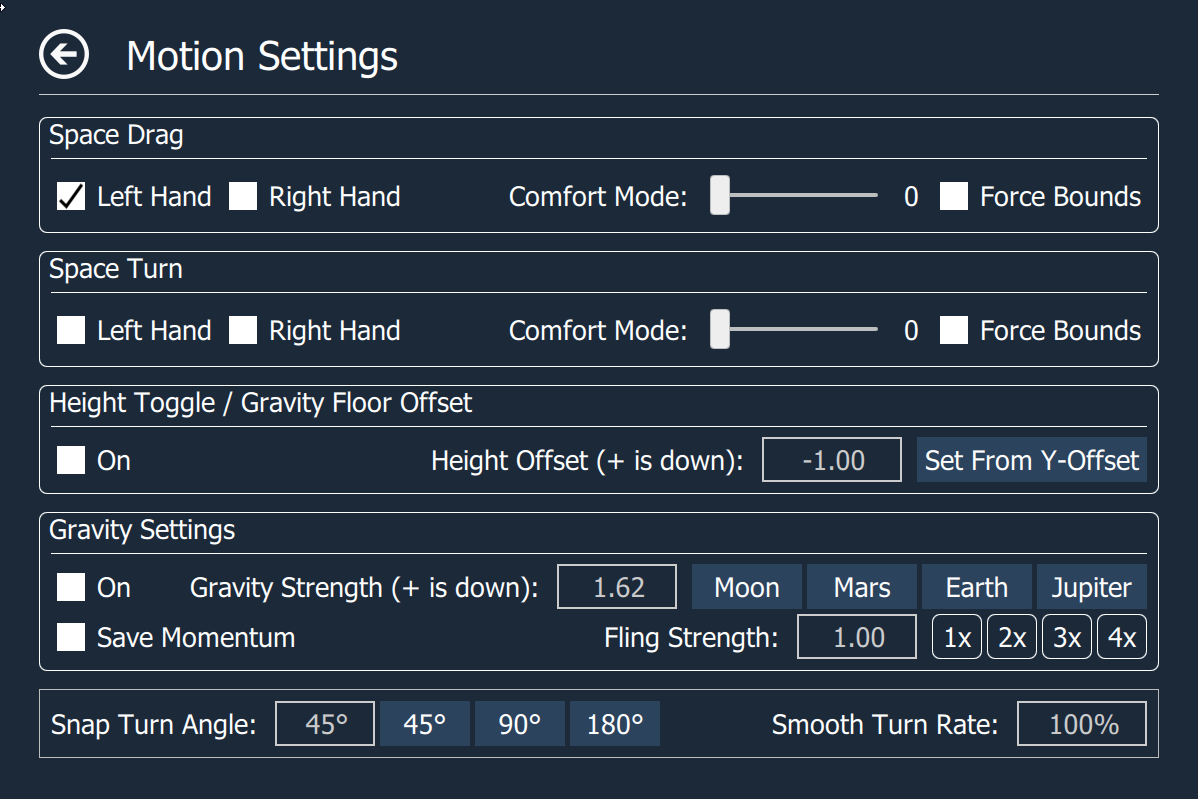
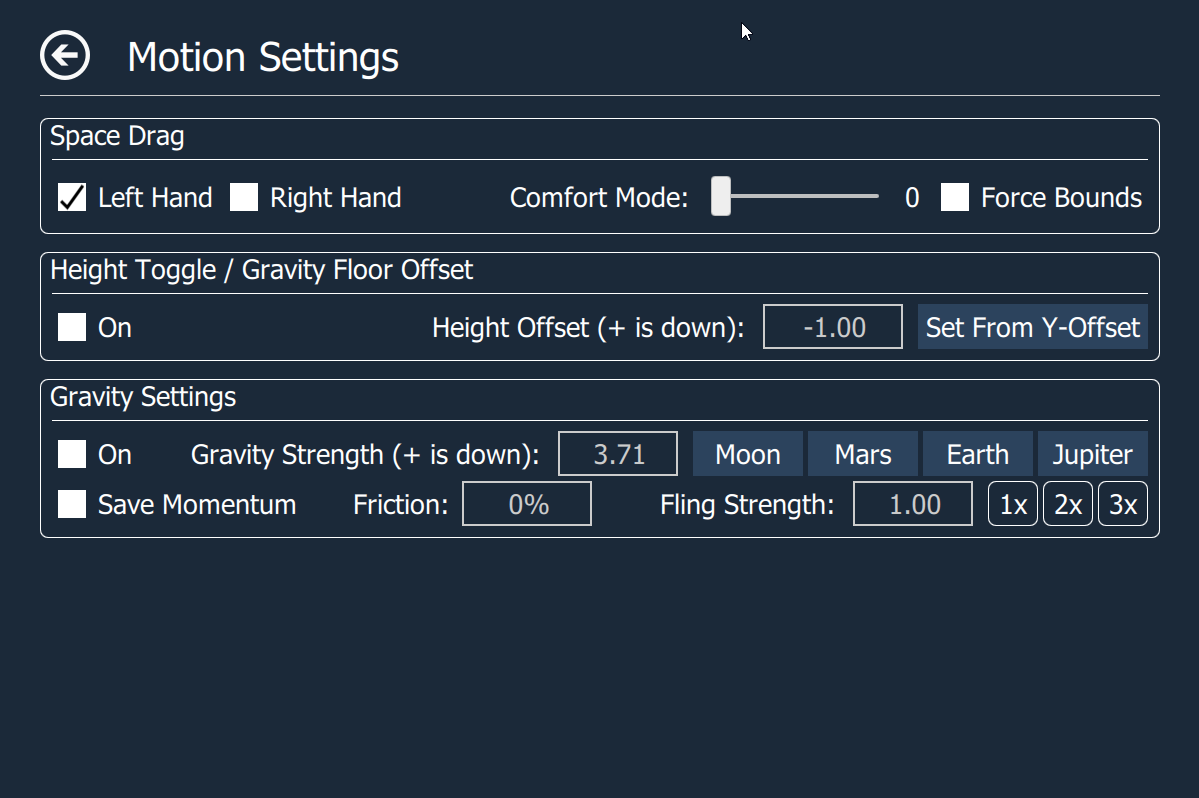
updated documentation/screenshots, let seated-recenter show in all modes, fixed default value of brigthness

diff --git a/src/res/qml/PlayspacePage.qml b/src/res/qml/PlayspacePage.qml
@@ -502,7 +502,7 @@ MyStackViewPage {
                 MyPushButton {
                     id: spaceSeatedRecenter
                     Layout.preferredWidth: 250
-                    visible: false
+                    visible: true
                     text: "Seated Recenter"
                     onClicked: {
                         MoveCenterTabController.sendSeatedRecenter()
@@ -539,7 +539,7 @@ MyStackViewPage {
 
             } else if (MoveCenterTabController.trackingUniverse === 1) {
                 spaceModeText.text = "Standing"
-                spaceSeatedRecenter.visible = false
+                spaceSeatedRecenter.visible = true
                 offsetsGroupBox.visible = true
                 rotationGroupBox.visible = true
                 resetButtonRow.visible = true

diff --git a/src/settings/internal/settings_controller.h b/src/settings/internal/settings_controller.h
@@ -391,7 +391,7 @@ private:
         DoubleSettingValue{ DoubleSetting::VIDEO_brightnessOpacityValue,
                             SettingCategory::Video,
                             QtInfo{ "brightnessOpacityValue" },
-                            0.0 },
+                            1.0 },
         DoubleSettingValue{ DoubleSetting::VIDEO_colorOverlayOpacity,
                             SettingCategory::Video,
                             QtInfo{ "colorOverlayOpacity" },

diff --git a/Readme.md b/Readme.md
@@ -25,11 +25,13 @@ Adds an overlay to the OpenVR dashboard that allows access to advanced settings 
      * [Music](#music)
      * [Motion](#motion)
      * [Misc.](#misc)
+	 * [System.](#system)
      * [Haptics.](#haptics)
   * [Default Bindings](#default-bindings)
      * [Vive Wands](#vive-wands)
      * [Valve Index Controllers (Knuckles)](#valve-index-controllers-knuckles)
      * [WMR](#wmr)
+	 * [Touch](#touch)
      * [Other Controllers](#other-controllers)
   * [SteamVR Input Guide](#steamvr-input-guide)
   * [Command Line Arguments](#command-line-arguments)
@@ -42,6 +44,7 @@ Adds an overlay to the OpenVR dashboard that allows access to advanced settings 
   * [- Chaperone Proximity Warning Settings Page](#--chaperone-proximity-warning-settings-page)
   * [- Space Offset Page](#--space-offset-page)
   * [- Motion Page](#--motion-page)
+  * [- Rotation Page](#--rotation-page)
   * [- Space Fix Page](#--space-fix-page)
   * [- Audio Page](#--audio-page)
   * [- Video Page](#--video-page)
@@ -159,6 +162,7 @@ Override actions will take priority over non-override actions during simultaneou
 | Snap-Turn Right | Binary/Button |  Rotates a set value to the right based on settings in motion tab. |
 | Smooth-Turn Right | Binary/Button | Rotates an amount per frame to the right based on settings in motion tab. |
 | Smooth-Turn Left | Binary/Button | Rotates an amount per frame to the left based on settings in motion tab. |
+| Auto-Turn Toggle | Binary/Button | Toggles the Auto-Turn Feature on/off.
 
 ### Misc.
 
@@ -176,14 +180,22 @@ Actions that don't have a clear category.
 | Keyboard Shortcut Three | Binary/Button | Sends the key sequence defined the the settings file. This has no default sequence. |
 
 
-### Haptics.
+### System.
 
-Actions that cause Vibration.
+Actions That will stay active regardless of the situation.
+
 
 |    Action     |     Type      |  Explanation  |
 | ------------- | ------------- |  ------------ |
 | Add Left Haptic Click | Binary/Button | simulates a "click" with controller haptics. (left hand)
 | Add Right Haptic Click | Binary/Button | simulates a "click" with controller haptics. (right hand)
+
+### Haptics.
+
+These Actions are Hidden, They are bound by default. They allow the application to use the haptics and proximity sensor in HMD's.
+
+|    Action     |     Type      |  Explanation  |
+| ------------- | ------------- |  ------------ |
 | Haptics Left | Vibration | Handle for haptic events on the Left Controller. **Do not "bind" this action**|
 | Haptics Right | Vibration | Handle for haptic events on the Right Controller. **Do not "bind" this action**|
 | Proximity Sensor | Binary/Button | Connects Automatically to your HMD's proximity sensor. **Do not "bind" this action**, it will cause un-predictable behavior. |
@@ -219,6 +231,15 @@ Actions that cause Vibration.
   - **Single Click**: Swap Active Space Drag (override) (respective hand)
 - TrackPad (right hand)
   - **D-pad Down click**: Push-to-Talk
+- Haptics bound
+
+### Touch
+- B/Y Button (respective hands)
+  - **Single Click**: Space Turn (respective hand)
+  - **Double Click**: Space Drag (override) (respective hand)
+  - **Single Click**: Swap Active Space Drag (override) (respective hand)
+- Trigger (left hand)
+  - **Click**: Push-to-Talk
 - Haptics bound
 
 ### Other Controllers
@@ -341,10 +362,6 @@ Allows users to temporarily move and rotate the center of the playspace. This al
   - **Left/Right Hand**: Toggles functionality (must be active in addition to binding via input system to work.)
   - **Comfort Mode**: Limits the rate at which your movement updates, reducing smoothness so that perceived motion starts to feel more like mini-teleports. Higher values reduce smoothness more.
   - **Force Bounds**: Forces the display of the chaperone bounds during Space Drag.
-- **Space Turn**: Allows rotating your playspace by rotating your controller. Binds must be set via SteamVR Input system.
-  - **Left/Right Hand**: Toggles functionality (must be active in addition to binding via input system to work.)
-  - **Comfort Mode**: Limits the rate at which your rotation updates, reducing smoothness so that perceived rotation starts to feel more like mini-snap-turns. Higher values reduce smoothness more.
-  - **Force Bounds**: Forces the display of the chaperone bounds during Space Turn.
 - **Height Toggle**: Toggle between zero and an offset for gravity floor height. If gravity is inactive the user is also moved to this offset. (Example: allows for quick switching between a seated and standing height.) Can be bound via SteamVr Input System.
   - **On**: Current toggle state, Binds directly modify this.
   - **Height Offset**: The amount of the offset (+ is down.)
@@ -352,10 +369,37 @@ Allows users to temporarily move and rotate the center of the playspace. This al
 - **Gravity Settings**: Provides a gravity and momentum simulation to dynamically move your space offset.
   - **On**: Current toggle state, Binds directly modify this.
   - **Gravity Strength**: Gravity simulation's downward acceleration in meters per second squared. Planet buttons provide quick settings for well known gravity strengths. Values can also be typed in directly.
+  - **Friction**: Slows down motion over time.
   - **Save Momentum**: whether your momentum is saved between on/off toggles of gravity.
   - **fling Strength**: adjusts the strength at which you "throw" yourself with space drag feature.
+
+
+## - Rotation Page
+
+<img src="docs/screenshots/RotationPage.png" width="600" alt="Rotation Page">
+
+- **Auto Turn**: Automatically rotates your playspace when you get near a wall, by rotating the direction you're looking to be inside your playspace parallel to a wall.
+ - **Toggle On/Off**: current state, bind directly modifies this.
+ - **Activation Distance**: How far from the wall before Autoturn activates.
+ - **DeActivation Distance**:  The minimum distance (activation + deactivation) you must be from the wall before autoturn will activate again.
+ - **Use Corner Angle**: When already against a wall and reaching a corner, turn the angle of that corner rather than the angle of your headset to the wall (reccomended)
+ - **Use Smooth Turn**: Toggles between a smooth turn and a snap turn.
+ - **Turn Speed**: How fast you rotate in Degrees per second.
+ - **Detangle Angle**: Settings attempting to keep your cord untangled while using the Auto-Turn feature.
+  - **Min Rotations(deg)**: The amount of rotation before Auto-Turn starts to try and un-tangle your cord.
+  - **Max Wall Angle(deg)**: When the angle of your headset to the wall is less than Max Wall Angle, it will turn you whichever way will start to untangle your cord. Otherwise it will turn you whichever way is closest. Set to '0' if you have a cordless setup 
+- **Redirected Walking**: Adds rotation as you walk to turn you away from the nearest wall you're moving towards. At 'Imperceptable' and 'Slight' angles should be subtle enough to feel as if you're walking in a straight line, effectively making your playspace feel bigger. 
+ - **On**: Toggles Feature on/off
+ - **Radius**: Radius in meters of how big a circle would be drawn to keep you walking in a straight line inside a game.
+
+
+- **Space Turn**: Allows rotating your playspace by rotating your controller. Binds must be set via SteamVR Input system.
+  - **Left/Right Hand**: Toggles functionality (must be active in addition to binding via input system to work.)
+  - **Comfort Mode**: Limits the rate at which your rotation updates, reducing smoothness so that perceived rotation starts to feel more like mini-snap-turns. Higher values reduce smoothness more.
+  - **Force Bounds**: Forces the display of the chaperone bounds during Space Turn.
 - **Snap Turn Angle**: Allows snap (instant) turning by the specified angle. Can type in values or use the preset buttons for angles that neatly divide 360 degrees. Must bind actions via SteamVR Input interface.
 - **Smooth Turn Rate**: Allows smooth turning by a percentage of a degree per frame. (i.e. 100% at 90fps is 90 degress/sec or 15 RPM)
+
 
 ## - Space Fix Page
 
